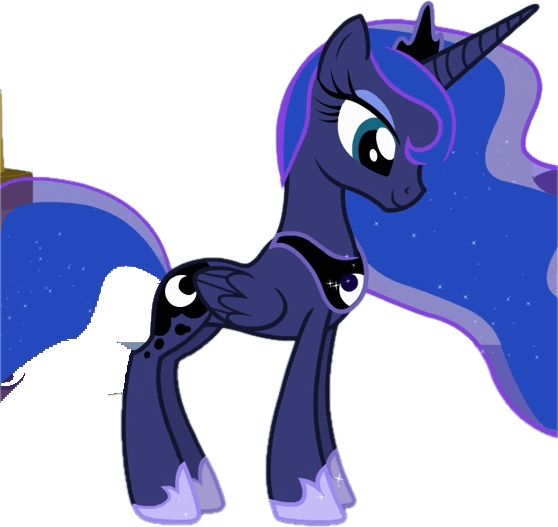
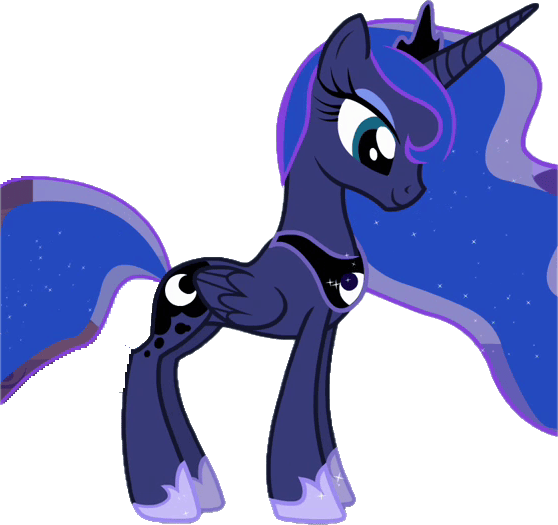
fix(images): Luna re-détourée, Rarity et Trixie re-sourcées
Trois images reprises après revue visuelle à l'échelle de la vignette.

- Luna : le montant de trône doré et le pan de mur pâle collés à sa croupe
  disparaissent. Même source (Princess Luna ID S4E02) mais un autre outil de
  gommage — effacement par gamme de couleur en mode boîte, sans propagation,
  donc sans risque de trouer le corps. ~200 autres captures ont été mesurées :
  les seules sans résidu perdaient la crinière, les yeux ouverts ou la taille
  perçue de grande alicorne.
- Rarity : nouvelle source (Rarity "could we spend it together?" S7E6). Son
  ancienne capture la plaçait devant un paravent beige, corps blanc sur fond
  beige — insoluble. La nouvelle est sur fond turquoise sombre, plein pied,
  yeux ouverts, marque visible.
- Trixie : source fournie par le propriétaire (clipartmax, style du film),
  déjà détourée. Elle porte enfin le grand chapeau et la cape étoilés que son
  texte annonce, ce qui lève la réserve n° 2 du rapport de conversion.

NOTES.md § correctif du 25/08 consigne les seuils, les rectangles et les
candidates écartées.

Claude-Session: https://claude.ai/code/session_01JUPcesLpvVzGxCLnsfZNyB

diff --git a/NOTES.md b/NOTES.md
@@ -481,6 +481,105 @@ couleur du template disparaissent donc purement et simplement :
   forcées à `scaleY(1)` et le médaillon**, capturée en Chrome headless. Beaucoup plus
   rapide que Playwright, et elle montre d'un coup les trois cadrages qui comptent.
 
+## 2026-08-25 — correctif visuel : Luna, Rarity et Trixie
+
+Trois images reprises après revue visuelle à l'échelle de la vignette de galerie.
+
+### La gomme par gamme de couleur, l'outil qui manquait
+
+Le § conversion ci-dessous raconte les gommages qui ont **vidé** des corps : le
+remplissage par diffusion progresse par proximité de couleur, et posé à deux pixels
+du contour il franchit la lisière. Le correctif utilise un autre outil, **sans
+propagation** : on efface les pixels du masque dont la **teinte n'existe pas dans la
+palette du personnage**, et rien d'autre. Un corps ne peut pas se trouer, puisque
+aucun de ses pixels ne satisfait la condition.
+
+Trois règles ont suffi :
+
+- **chaud** — `R > B + n` : l'or et le brun d'un trône, le beige d'un paravent.
+  Aucune couleur de Luna (bleus, navy, violets, blanc, œil turquoise) ni de Rarity
+  (blanc, crinière violette, yeux bleus) n'est à dominante rouge.
+- **pâle verdâtre** — `G > B + 4 ∧ R > 120 ∧ G > 120` : le mur vert pâle de la salle
+  du trône.
+- **vert** — `G > R + 20 ∧ G > B + 20` : la frange turquoise du mur laissée par
+  l'anti-aliasing le long d'un contour.
+
+**Deux pièges, tous deux vérifiés en zoom :**
+
+1. **Le blanc anti-aliasé tombe dans la gamme.** Un blanc posé sur un mur vert pâle
+   devient `(250, 252, 246)`, qui satisfait `G > B + 4` : la première passe a percé un
+   **trou dans la marque de beauté de Luna**. D'où le **mode boîte** — la règle ne
+   s'applique que dans un rectangle. Pour Luna : `x < 165`, juste avant le blanc de la
+   marque, qui commence à `x = 166`. Pour Rarity : `y > 388` (coordonnées de la source
+   1280 × 720), juste sous sa **bouche rouge**, sinon la règle « chaud » la mange.
+2. **Une garde de luminosité `R > 100` casse tout.** Ajoutée pour protéger les blancs,
+   elle laisse en place l'ornement **sombre** du trône. La bonne protection est la
+   boîte, pas le seuil de clarté.
+
+Reste, dans la boîte de Luna, un dernier éclat du **sol** (`123, 140, 173`, à
+dominante bleue : aucune des trois règles ne l'attrape). Effacé par une quatrième
+règle, encore plus étroite — clair et peu saturé (`min > 110`, `|R − B| < 60`) dans le
+rectangle `110–162 × 326–358`. 82 pixels.
+
+### Les coordonnées de la boîte sont celles de la SOURCE
+
+Le recadrage sur la boîte englobante du masque vient **après** la gomme. La boîte se
+donne donc dans le repère de l'image d'origine, pas du PNG de sortie : pour Rarity,
+l'offset de recadrage était `(190, 128)`, et le `y = 260` repéré sur la sortie valait
+`388` dans la source. Le script de détourage affiche cet offset ; s'en servir.
+
+### Le tri automatique refait, ~800 candidates passées au crible
+
+`bords = 0` et `remplissage` (cf. § conversion) ont été recalculés sur **~200 captures
+de Luna** et **~600 de Rarity** (sources téléchargées, masque Vision, mesures, planches
+contact des retenues). Ce que ça a appris :
+
+- **Vision ne détecte pas toujours de sujet.** `Luna flying S3E6` (Luna devant la
+  lune) : `VNGenerateForegroundInstanceMaskRequest` ne renvoie **aucune instance**.
+  Un poney trop petit ou trop fondu dans le fond n'est pas un « sujet ».
+- **Une crinière translucide emporte le décor avec elle.** La crinière étoilée de
+  Luna est semi-transparente dans la série : le détourage garde le fond *composité
+  dedans*. `Princess Luna ID S5E04` (fond de nébuleuse) sort avec la crinière et la
+  queue **amputées** ; `Luna in the Everfree Forest S2E4`, pose debout parfaite et yeux
+  ouverts, sort avec des **troncs d'arbre et une tache d'herbe verte visibles dans la
+  queue** (716 px verts, dont 574 en un seul bloc — un ré-encrage par diffusion ne l'a
+  pas effacé, la diffusion repuisant dans des olives voisines sous le seuil). Écartée.
+- **La seule source Luna vraiment sans résidu** est `Princess Luna casting sleep magic
+  S5E13` (fond de rêve pastel) : zéro pixel étranger, mais **yeux fermés** et surtout
+  boîte englobante large (mane + ailes déployées) qui, dans la boîte de hauteur fixe de
+  la fiche, fait paraître son corps **plus petit** que celui de Twilight. Écartée aussi.
+- **Conclusion pour Luna : garder la source, refaire le détourage.** La prémisse
+  « le gommage empire les choses, donc changer de source » ne valait que pour le
+  gommage par diffusion. `Princess Luna ID S4E02` reste la meilleure pose (debout,
+  plein pied, yeux ouverts, grande alicorne) ; ses deux résidus tombent proprement à
+  la gamme de couleur.
+- **Rarity, elle, a bien changé de source.** Son ancienne capture `S1E20` la plaçait
+  devant un **paravent beige** : blanc sur beige, le masque ne pouvait pas trancher.
+  La nouvelle, `Rarity "could we spend it together?" S7E6`, est un plan large de
+  face-trois-quarts, quatre pattes, marque visible, sourire, yeux ouverts, sur fond
+  turquoise sombre — le contraste que son corps blanc réclamait.
+
+### Trixie : source fournie, déjà détourée
+
+`refs/trixie-clipartmax.png` (1024 × 1133, clipartmax, **style du film** *My Little
+Pony : le film*, pas celui de la série ; `refs/` est dans le `.gitignore`, la source
+reste donc **locale**, seul le PNG de sortie est publié) : Trixie avec son **grand
+chapeau et sa cape étoilés**, rire joyeux. Alpha déjà propre (608 074 px transparents sur 1 160 192,
+aucun halo blanc). Traitement : recadrage sur la boîte alpha, mise à 700 px de haut,
+`pngquant`. Elle règle la réserve n° 2 du rapport de conversion — le texte de `data.js`
+promettait le chapeau et la cape, l'image ne les montrait pas.
+
+Effet de bord assumé : le chapeau prend le tiers haut de l'image, donc dans la boîte
+de hauteur fixe **son corps paraît plus petit** que celui d'un poney standard. Le
+même compromis que Discord (349 × 606). Le chapeau fait partie du personnage.
+
+### Faux bug à connaître : Playwright et la navigation par ancre
+
+`browser_navigate` vers `#/poney/x` depuis `#/poney/y` (même document) ne redéclenche
+rien côté Playwright : la capture sort **blanche**. Ce n'est pas le routeur — vérifié
+en posant `location.hash` depuis la page, la fiche se rend et `.fiche-dessin img`
+porte le bon `src`. Recharger (`location.reload()`) ou naviguer depuis une autre URL.
+
 ## 2026-08-25 — conversion : les personnages passent en images officielles détourées
 
 Décision du propriétaire (amendement du 25/08, actée dans le spec § « Décisions
@@ -583,7 +682,7 @@ Toutes sur `mlp.fandom.com`, © Hasbro, reprises dans un projet de fan non comme
 | Rainbow Dash | [`Rainbow Dash bad day S2E8.png`](https://mlp.fandom.com/wiki/File:Rainbow_Dash_bad_day_S2E8.png) | 399 × 412 | 38 Ko | aucun |
 | Pinkie Pie | [`Pinkie Pie ID S4E11.png`](https://mlp.fandom.com/wiki/File:Pinkie_Pie_ID_S4E11.png) | 436 × 422 | 49 Ko | aucun |
 | Fluttershy | [`Fluttershy ID S4E16.png`](https://mlp.fandom.com/wiki/File:Fluttershy_ID_S4E16.png) | 438 × 423 | 48 Ko | aucun |
-| Rarity | [`Rarity I'll put alittle S1E20.png`](https://mlp.fandom.com/wiki/File:Rarity_I%27ll_put_alittle_S1E20.png) | 359 × 392 | 47 Ko | aucun |
+| Rarity | [`Rarity "could we spend it together?" S7E6.png`](https://mlp.fandom.com/wiki/File:Rarity_%22could_we_spend_it_together%3F%22_S7E6.png) | 477 × 502 | 79 Ko | gomme par gamme de couleur (voir § correctif du 25/08) |
 | Spike | [`Spike ID S4E24.png`](https://mlp.fandom.com/wiki/File:Spike_ID_S4E24.png) | 326 × 472 | 35 Ko | aucun |
 | Big Macintosh | [`Big McIntosh Nope S2E3.png`](https://mlp.fandom.com/wiki/File:Big_McIntosh_Nope_S2E3.png) | 389 × 446 | 40 Ko | érosion 2 px |
 | Apple Bloom | [`Apple Bloom id S01E12.png`](https://mlp.fandom.com/wiki/File:Apple_Bloom_id_S01E12.png) | 417 × 520 | 47 Ko | aucun |
@@ -591,10 +690,10 @@ Toutes sur `mlp.fandom.com`, © Hasbro, reprises dans un projet de fan non comme
 | Scootaloo | [`Scootaloo ID S6E4.png`](https://mlp.fandom.com/wiki/File:Scootaloo_ID_S6E4.png) | 470 × 440 | 59 Ko | érosion 1 px, 1 graine de gomme |
 | Zecora | [`Zecora Parasprite Worried S1E10.png`](https://mlp.fandom.com/wiki/File:Zecora_Parasprite_Worried_S1E10.png) | 374 × 379 | 36 Ko | aucun |
 | Princesse Celestia | [`Princess Celestia ID S4E01.png`](https://mlp.fandom.com/wiki/File:Princess_Celestia_ID_S4E01.png) | 600 × 694 | 80 Ko | aucun |
-| Princesse Luna | [`Princess Luna ID S4E02.png`](https://mlp.fandom.com/wiki/File:Princess_Luna_ID_S4E02.png) | 558 × 527 | 52 Ko | 11 graines de gomme |
+| Princesse Luna | [`Princess Luna ID S4E02.png`](https://mlp.fandom.com/wiki/File:Princess_Luna_ID_S4E02.png) | 558 × 525 | 53 Ko | gomme par gamme de couleur (voir § correctif du 25/08) |
 | Granny Smith | [`Granny Smith winks S3E6.png`](https://mlp.fandom.com/wiki/File:Granny_Smith_winks_S3E6.png) | 304 × 349 | 25 Ko | aucun |
 | Discord | [`Discord ID S4E26.png`](https://mlp.fandom.com/wiki/File:Discord_ID_S4E26.png) | 349 × 606 | 32 Ko | aucun |
-| Trixie | [`Trixie ID S6E6.png`](https://mlp.fandom.com/wiki/File:Trixie_ID_S6E6.png) | 661 × 684 | 98 Ko | érosion 1 px, 1 graine de gomme |
+| Trixie | `trixie-clipartmax.png` (clipartmax, style du film *My Little Pony : le film*) | 633 × 700 | 66 Ko | aucun — source déjà détourée (voir § correctif du 25/08) |
 | Derpy | [`Derpy ID S4E10.png`](https://mlp.fandom.com/wiki/File:Derpy_ID_S4E10.png) | 500 × 623 | 55 Ko | aucun |
 | Cheerilee | [`Cheerilee ID S2E17.png`](https://mlp.fandom.com/wiki/File:Cheerilee_ID_S2E17.png) | 467 × 485 | 41 Ko | aucun |
 | Angel | [`Angel ID S3E10.png`](https://mlp.fandom.com/wiki/File:Angel_ID_S3E10.png) | 224 × 350 | 19 Ko | érosion 1 px, 1 graine de gomme |
@@ -606,8 +705,8 @@ Toutes sur `mlp.fandom.com`, © Hasbro, reprises dans un projet de fan non comme
 | Diamond Tiara | [`Diamond Tiara ID S4E15.png`](https://mlp.fandom.com/wiki/File:Diamond_Tiara_ID_S4E15.png) | 534 × 640 | 66 Ko | aucun |
 
 Total : **1,2 Mo** pour 26 fichiers, tous plein pied et à fond transparent, hauteur
-plafonnée à 700 px (aucune source n'atteignait ce plafond, la plus grande fait
-694 px). La chaîne complète — recherche, mesures, détourage, gommage, `pngquant` —
+plafonnée à 700 px (seule Trixie, reprise le 25/08, atteint le plafond ; ensuite
+Celestia à 694 px). La chaîne complète — recherche, mesures, détourage, gommage, `pngquant` —
 est un jeu de scripts jetables restés hors du dépôt ; ce qui compte pour la
 reproduire est décrit ci-dessus.
 
